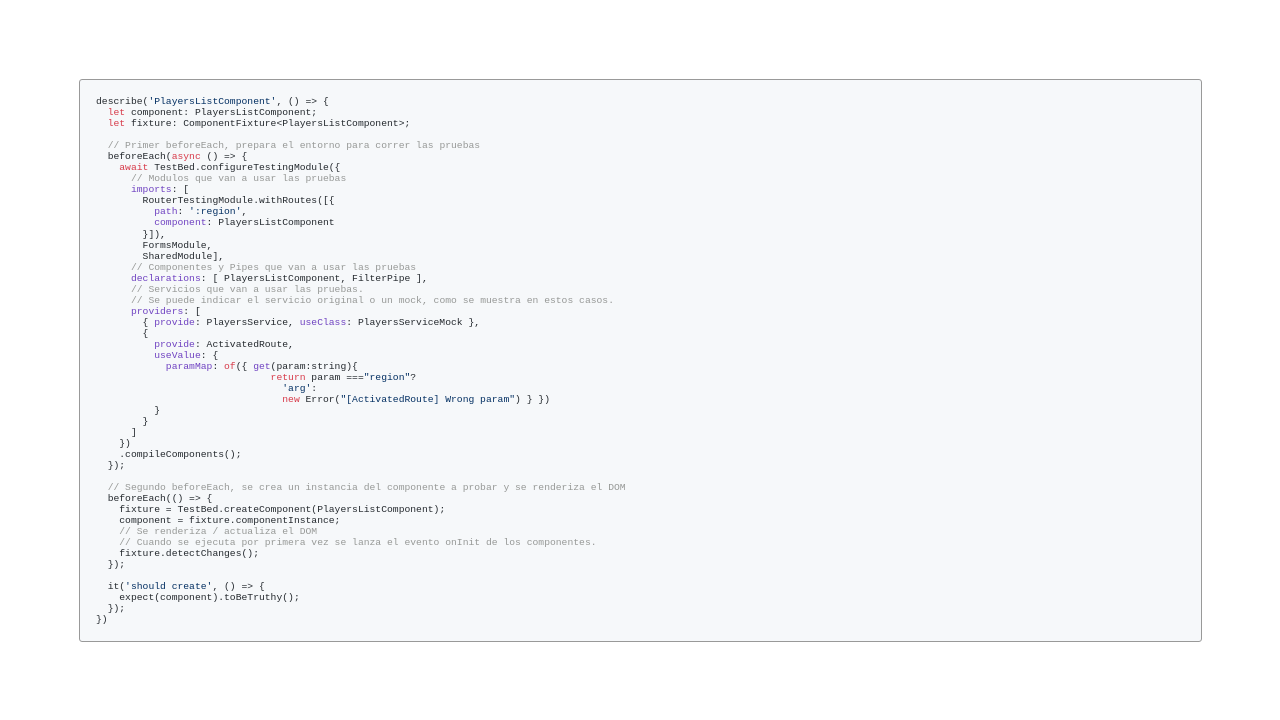
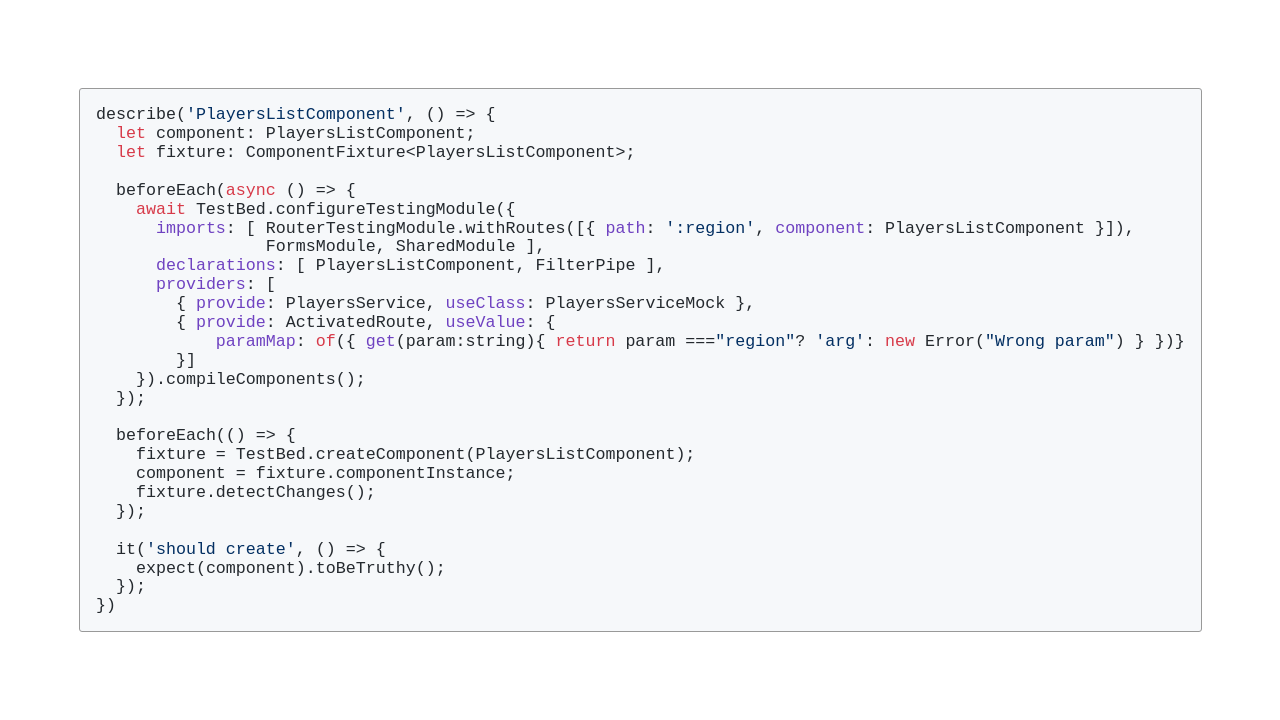
corrige espacios para poner en slices

diff --git a/slices/iteracion1/iteracion1_config.md b/slices/iteracion1/iteracion1_config.md
@@ -7,43 +7,22 @@ describe('PlayersListComponent', () => {
   let component: PlayersListComponent;
   let fixture: ComponentFixture<PlayersListComponent>;
 
-  // Primer beforeEach, prepara el entorno para correr las pruebas
   beforeEach(async () => {
     await TestBed.configureTestingModule({
-      // Modulos que van a usar las pruebas
-      imports: [
-        RouterTestingModule.withRoutes([{
-          path: ':region',
-          component: PlayersListComponent
-        }]), 
-        FormsModule, 
-        SharedModule],
-      // Componentes y Pipes que van a usar las pruebas
+      imports: [ RouterTestingModule.withRoutes([{ path: ':region', component: PlayersListComponent }]), 
+                 FormsModule, SharedModule ],
       declarations: [ PlayersListComponent, FilterPipe ],
-      // Servicios que van a usar las pruebas.
-      // Se puede indicar el servicio original o un mock, como se muestra en estos casos.
       providers: [
         { provide: PlayersService, useClass: PlayersServiceMock },
-        {
-          provide: ActivatedRoute,
-          useValue: {
-            paramMap: of({ get(param:string){ 
-                              return param ==="region"? 
-                                'arg': 
-                                new Error("[ActivatedRoute] Wrong param") } })
-          }
-        }
-      ]
-    })
-    .compileComponents();
+        { provide: ActivatedRoute, useValue: { 
+            paramMap: of({ get(param:string){ return param ==="region"? 'arg': new Error("Wrong param") } })}
+        }]
+    }).compileComponents();
   });
 
-  // Segundo beforeEach, se crea un instancia del componente a probar y se renderiza el DOM
   beforeEach(() => {
     fixture = TestBed.createComponent(PlayersListComponent);
     component = fixture.componentInstance;
-    // Se renderiza / actualiza el DOM 
-    // Cuando se ejecuta por primera vez se lanza el evento onInit de los componentes.
     fixture.detectChanges();
   });
 

diff --git a/slices/iteracion1/iteracion1_ejemplo2.md b/slices/iteracion1/iteracion1_ejemplo2.md
@@ -9,17 +9,10 @@ it(`should show just the players from "USA"
 
     const filterValue = "USA";
 
-    // No tenemos bien resuelto este mock.
-    // Debemos setear nuevamente un valor de retorno
-    // E invocar nuevamente al ngOnInit. 
     const activatedRouteSpy = getTestBed().inject(ActivatedRoute);
-    (activatedRouteSpy as any).paramMap = of({ 
-                                            get(param:string){ 
+    (activatedRouteSpy as any).paramMap = of({ get(param:string){ 
                                                 return param ==="region"? 
-                                                        'wrd': 
-                                                        new Error("[ActivatedRoute] Wrong param") } 
-                                            })
-    
+                                                        'wrd': new Error("Wrong param")}})
     component.ngOnInit();
     fixture.detectChanges();
 
